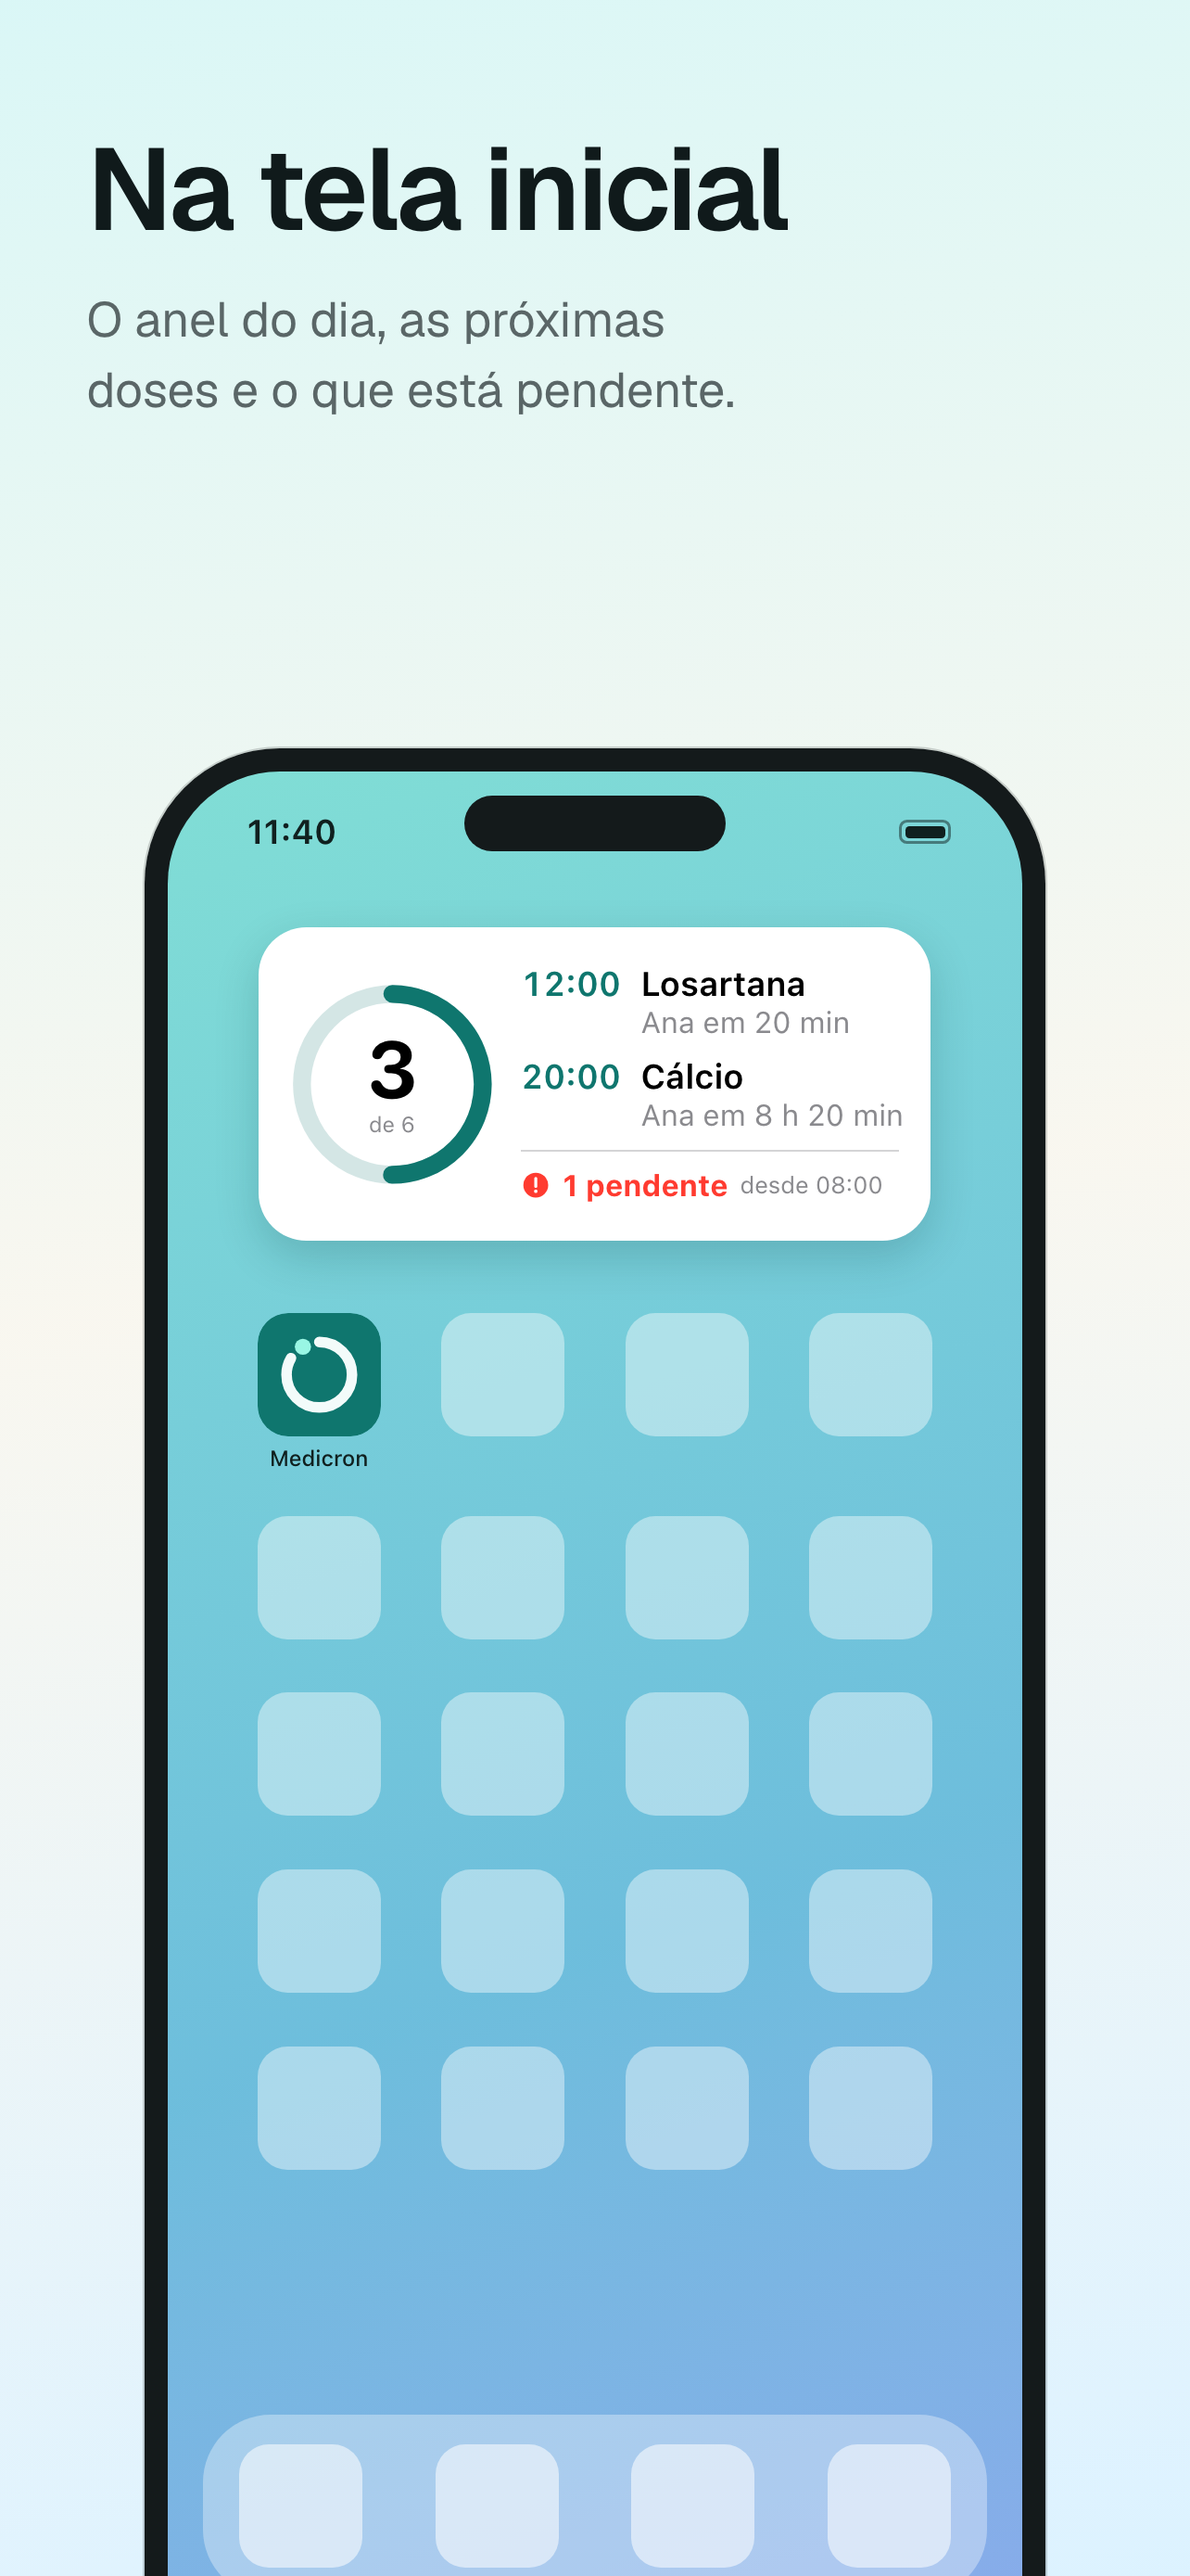
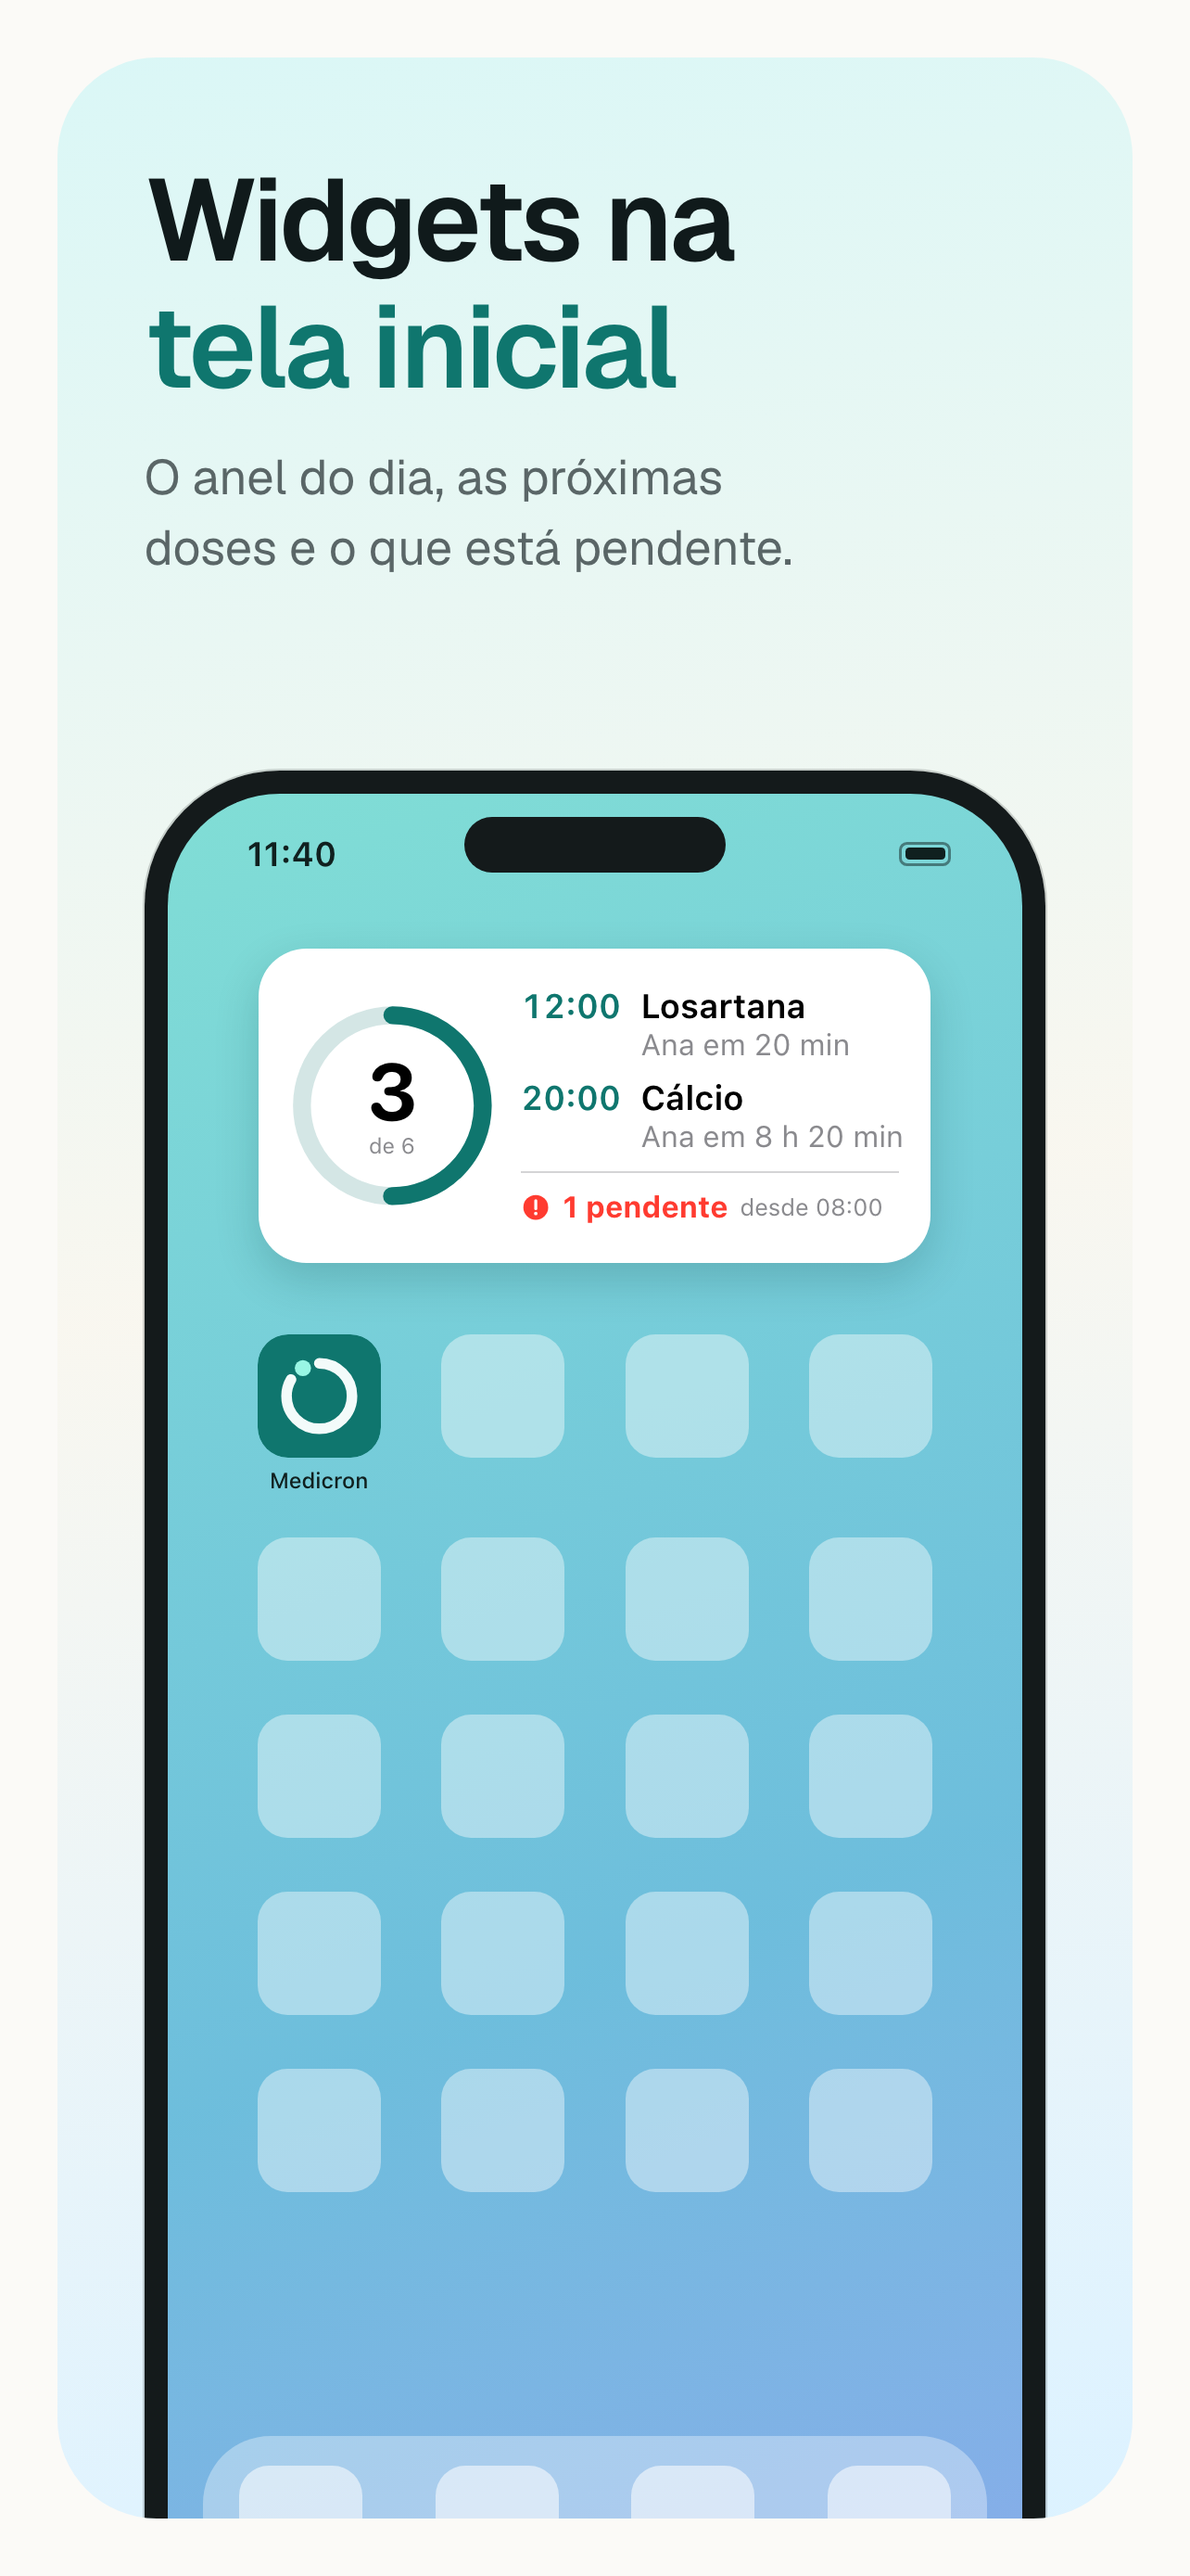
feat(loja): slides em cartão arredondado, palavra-chave em destaque e títulos sempre em 2 linhas

diff --git a/apps/app/scripts/store-slides.ts b/apps/app/scripts/store-slides.ts
@@ -6,7 +6,14 @@ import { renderWidgetScreen } from "./store-widgets.ts";
 
 export type StoreSize = { id: "6.9" | "6.5"; width: number; height: number };
 /** `app` = captura real de uma tela do app (`route`); `lock` e `home` = widgets do iOS reproduzidos (store-widgets.ts). */
-export type StoreSlide = { id: string; kind: "app" | "lock" | "home"; route: string; title: string; subtitle: string; theme: "light" | "dark" };
+export type StoreSlide = {
+  id: string; kind: "app" | "lock" | "home"; route: string;
+  /** O título sempre em 2 linhas, com a quebra decidida aqui (não pelo navegador); `title` é as duas juntas. */
+  lines: [string, string]; title: string;
+  /** Trecho de uma das linhas que ganha a cor da marca. */
+  highlight: string;
+  subtitle: string; theme: "light" | "dark";
+};
 
 /** Tamanhos de captura exigidos para iPhone (docs/lojas.md). */
 export const STORE_SIZES: StoreSize[] = [
@@ -14,18 +21,34 @@ export const STORE_SIZES: StoreSize[] = [
   { id: "6.5", width: 1284, height: 2778 },
 ];
 
+const slide = (o: Omit<StoreSlide, "title">): StoreSlide => ({ ...o, title: o.lines.join(" ") });
+
 /** Roteiro: as 5 telas de docs/lojas.md, na ordem, e os 2 slides de widgets (iPhone). Textos fiéis ao que o app faz (sem promessa médica). */
 export const STORE_SLIDES: StoreSlide[] = [
-  { id: "hoje", kind: "app", route: "/", title: "Cada dose na hora certa", subtitle: "Veja o que falta e o que atrasou.", theme: "light" },
-  { id: "pacientes", kind: "app", route: "/pacientes", title: "Gente e pets, cada um com a sua rotina", subtitle: "Todos os cuidados da casa em um só lugar.", theme: "dark" },
-  { id: "rotina", kind: "app", route: "/pacientes/pa_ana", title: "Monte a rotina de cada um", subtitle: "Medicação ou procedimento, com dose e frequência.", theme: "light" },
-  { id: "itens", kind: "app", route: "/itens", title: "Tudo o que entra na rotina", subtitle: "Medicações e procedimentos, cadastrados uma vez.", theme: "dark" },
-  { id: "conta", kind: "app", route: "/conta", title: "A família inteira no mesmo cuidado", subtitle: "Convide por link: todos veem o que já foi dado.", theme: "light" },
-  { id: "bloqueio", kind: "lock", route: "", title: "Na tela de bloqueio", subtitle: "A próxima dose e as pendentes, sem abrir o app.", theme: "dark" },
-  { id: "widget", kind: "home", route: "", title: "Na tela inicial", subtitle: "O anel do dia, as próximas doses e o que está pendente.", theme: "light" },
+  slide({ id: "hoje", kind: "app", route: "/", lines: ["Cada dose", "na hora certa"], highlight: "hora certa", subtitle: "Veja o que falta e o que atrasou.", theme: "light" }),
+  slide({ id: "pacientes", kind: "app", route: "/pacientes", lines: ["Cada um com", "a sua rotina"], highlight: "a sua rotina", subtitle: "Gente e pets, todos os cuidados em um só lugar.", theme: "dark" }),
+  slide({ id: "rotina", kind: "app", route: "/pacientes/pa_ana", lines: ["Monte a rotina", "de cada um"], highlight: "rotina", subtitle: "Medicação ou procedimento, com dose e frequência.", theme: "light" }),
+  slide({ id: "itens", kind: "app", route: "/itens", lines: ["Tudo o que entra", "na rotina"], highlight: "rotina", subtitle: "Medicações e procedimentos, cadastrados uma vez.", theme: "dark" }),
+  slide({ id: "conta", kind: "app", route: "/conta", lines: ["A família inteira", "no mesmo cuidado"], highlight: "mesmo cuidado", subtitle: "Convide por link: todos veem o que já foi dado.", theme: "light" }),
+  slide({ id: "bloqueio", kind: "lock", route: "", lines: ["Widgets na tela", "de bloqueio"], highlight: "bloqueio", subtitle: "A próxima dose e as pendentes, sem abrir o app.", theme: "dark" }),
+  slide({ id: "widget", kind: "home", route: "", lines: ["Widgets na", "tela inicial"], highlight: "tela inicial", subtitle: "O anel do dia, as próximas doses e o que está pendente.", theme: "light" }),
 ];
 
 const escapeHtml = (s: string) => s.replace(/&/g, "&amp;").replace(/</g, "&lt;").replace(/>/g, "&gt;").replace(/"/g, "&quot;");
+
+/** As 2 linhas do título em HTML, com o destaque (uma vez) em <em>. */
+function titleHtml(lines: [string, string], highlight: string): string {
+  const hi = escapeHtml(highlight);
+  let done = false;
+  return lines.map((l) => {
+    const e = escapeHtml(l);
+    if (!done && hi && e.includes(hi)) { done = true; return `<span class="ln">${e.replace(hi, `<em>${hi}</em>`)}</span>`; }
+    return `<span class="ln">${e}</span>`;
+  }).join(" ");
+}
+
+/** Reduz a fonte do título, de 2 em 2 px, até a linha mais larga caber na coluna (depois que a fonte carrega). */
+const FIT_SCRIPT = `<script>(function(){function fit(){var h=document.querySelector("h1"),max=h.parentNode.clientWidth,ls=h.querySelectorAll(".ln"),fs=parseFloat(getComputedStyle(h).fontSize);function w(){var m=0;for(var i=0;i<ls.length;i++)m=Math.max(m,ls[i].scrollWidth);return m}while(w()>max&&fs>60){fs-=2;h.style.fontSize=fs+"px"}}(document.fonts&&document.fonts.ready?document.fonts.ready:Promise.resolve()).then(fit)})()</script>`;
 
 /**
  * HTML de um slide. As medidas são proporcionais à largura (referência: 1320), então o 6,5" sai igual ao 6,9" em escala.
@@ -39,6 +62,8 @@ export function renderStoreSlide(slide: StoreSlide, size: StoreSize, screenDataU
   const bg = dark
     ? "radial-gradient(90% 38% at 6% 100%,oklch(0.5 0.1 190 / 0.9) 0%,transparent 62%),radial-gradient(70% 28% at 100% 56%,oklch(0.55 0.09 190 / 0.45) 0%,transparent 66%),linear-gradient(170deg,oklch(0.3 0.07 205) 0%,oklch(0.2 0.055 235) 100%)"
     : "linear-gradient(170deg,oklch(0.955 0.03 195) 0%,oklch(0.975 0.01 95) 48%,oklch(0.95 0.03 235) 100%)";
+  const page = dark ? "#0b1314" : "#fbfaf7"; // a cor de fundo do site, em volta do cartão
+  const hi = dark ? "#7ee7d3" : "#0f766e";
   const fg = dark ? "#fff" : "oklch(0.21 0.015 200)";
   const sub = dark ? "rgba(255,255,255,.7)" : "oklch(0.5 0.015 200)";
   const frame = dark ? "--bezel:#2b3436;--screen:#0b1314" : "--bezel:#141a1b;--screen:#fbfaf7";
@@ -49,20 +74,23 @@ export function renderStoreSlide(slide: StoreSlide, size: StoreSize, screenDataU
 <style>${fontCss}
 *{box-sizing:border-box}
 html,body{margin:0}
-body{position:relative;width:${size.width}px;height:${size.height}px;overflow:hidden;font-family:Geist,ui-sans-serif,system-ui,sans-serif;color:${fg};-webkit-font-smoothing:antialiased;
-background:${bg}}
-.copy{position:absolute;left:${px(96)};right:${px(96)};top:${px(140)}}
-h1{margin:0;font-size:${px(128)};line-height:1.1;letter-spacing:-.028em;font-weight:600;text-wrap:balance}
+body{position:relative;width:${size.width}px;height:${size.height}px;overflow:hidden;font-family:Geist,ui-sans-serif,system-ui,sans-serif;color:${fg};-webkit-font-smoothing:antialiased;background:${page}}
+.box{position:absolute;inset:${px(64)};border-radius:${px(110)};overflow:hidden;background:${bg}}
+.copy{position:absolute;left:${px(96)};right:${px(96)};top:${px(110)}}
+h1{margin:0;font-size:${px(128)};line-height:1.1;letter-spacing:-.028em;font-weight:600}
+.ln{display:block;white-space:nowrap}
+h1 em{font-style:normal;color:${hi}}
 p{margin:${px(34)} 0 0;font-size:${px(54)};line-height:1.45;font-weight:400;color:${sub};text-wrap:balance}
-.phone{${frame};position:absolute;left:50%;top:${px(830)};width:${px(1000)};margin-left:${px(-500)};overflow:hidden;border:${px(26)} solid var(--bezel);border-bottom:0;border-radius:${px(150)} ${px(150)} 0 0;outline:${px(3)} solid ${dark ? "rgba(255,255,255,.28)" : "rgba(20,26,27,.18)"};background:var(--screen);padding-top:${px(78)}}
+.phone{${frame};position:absolute;left:50%;top:${px(790)};width:${px(1000)};margin-left:${px(-500)};overflow:hidden;border:${px(26)} solid var(--bezel);border-bottom:0;border-radius:${px(150)} ${px(150)} 0 0;outline:${px(3)} solid ${dark ? "rgba(255,255,255,.28)" : "rgba(20,26,27,.18)"};background:var(--screen);padding-top:${px(78)}}
 .phone::before{content:"";position:absolute;z-index:2;top:${px(26)};left:50%;width:${px(290)};height:${px(62)};margin-left:${px(-145)};border-radius:999px;background:var(--bezel)}
 .phone img{display:block;width:100%;height:auto}
 .phone.raw{padding-top:0;background:#000}
 </style>
 </head>
 <body>
-<div class="copy"><h1>${escapeHtml(slide.title)}</h1><p>${escapeHtml(slide.subtitle)}</p></div>
-<div class="phone${slide.kind === "app" ? "" : " raw"}">${slide.kind === "app" ? `<img src="${screenDataUri}" alt="">` : renderWidgetScreen(slide.kind, DEMO_WIDGET_PROPS, WIDGET_DEMO_NOW, k, lockWallpaper)}</div>
+<div class="box"><div class="copy"><h1>${titleHtml(slide.lines, slide.highlight)}</h1><p>${escapeHtml(slide.subtitle)}</p></div>
+<div class="phone${slide.kind === "app" ? "" : " raw"}">${slide.kind === "app" ? `<img src="${screenDataUri}" alt="">` : renderWidgetScreen(slide.kind, DEMO_WIDGET_PROPS, WIDGET_DEMO_NOW, k, lockWallpaper)}</div></div>
+${FIT_SCRIPT}
 </body>
 </html>
 `;

diff --git a/apps/app/tests/store-slides.test.ts b/apps/app/tests/store-slides.test.ts
@@ -81,6 +81,64 @@ describe("estilo: tema escuro e claro do site, tipografia do hero", () => {
   });
 });
 
+const h1Text = (html: string) => html.match(/<h1>([\s\S]*?)<\/h1>/)![1].replace(/<[^>]+>/g, "").replace(/\s+/g, " ").trim();
+
+describe("títulos: sempre 2 linhas, com a palavra-chave em destaque", () => {
+  test("cada slide define exatamente 2 linhas (quebra explícita), curtas o bastante para a fonte ficar grande (≤ 18 letras)", () => {
+    for (const s of STORE_SLIDES) {
+      expect(s.lines).toHaveLength(2);
+      for (const l of s.lines) { expect(l.length).toBeGreaterThanOrEqual(6); expect(l.length).toBeLessThanOrEqual(18); }
+      expect(s.title).toBe(s.lines.join(" "));
+    }
+  });
+  test("o destaque é um trecho de uma das linhas", () => {
+    for (const s of STORE_SLIDES) expect(s.lines.some((l) => l.includes(s.highlight))).toBe(true);
+  });
+  test("o HTML tem 2 linhas (.ln) dentro do h1, o texto lido é o título inteiro e o destaque está em <em>", () => {
+    for (const s of STORE_SLIDES) {
+      const html = renderStoreSlide(s, STORE_SIZES[0], PIXEL, "");
+      expect(html.match(/<span class="ln">/g)).toHaveLength(2);
+      expect(h1Text(html)).toBe(s.title);
+      expect(html).toContain(`<em>${s.highlight}</em>`);
+    }
+  });
+  test("o destaque usa a cor da marca: verde-menta no escuro, verde do site no claro", () => {
+    expect(renderStoreSlide(STORE_SLIDES[1], STORE_SIZES[0], PIXEL, "")).toMatch(/h1 em\{[^}]*color:#7ee7d3/);
+    expect(renderStoreSlide(STORE_SLIDES[0], STORE_SIZES[0], PIXEL, "")).toMatch(/h1 em\{[^}]*color:#0f766e/);
+  });
+  test("as linhas não quebram (nowrap) e um script reduz a fonte até a mais larga caber na caixa, depois que a fonte carrega", () => {
+    const html = renderStoreSlide(STORE_SLIDES[0], STORE_SIZES[0], PIXEL, "");
+    expect(html).toMatch(/\.ln\{[^}]*white-space:nowrap/);
+    expect(html).toContain("document.fonts.ready");
+    expect(html).toContain("scrollWidth");
+  });
+});
+
+describe("cartão arredondado como o hero do site", () => {
+  const light = renderStoreSlide(STORE_SLIDES[0], STORE_SIZES[0], PIXEL, "");
+  const dark = renderStoreSlide(STORE_SLIDES[1], STORE_SIZES[0], PIXEL, "");
+  test("texto e celular ficam dentro de um .box de cantos grandes, que recorta o celular", () => {
+    expect(light).toMatch(/<div class="box">[\s\S]*<div class="copy">[\s\S]*<div class="phone[\s\S]*<\/div><\/div>\s*<script>[\s\S]*<\/script>\s*<\/body>/);
+    const box = light.match(/\.box\{[^}]*\}/)![0];
+    expect(Number(box.match(/border-radius:([\d.]+)px/)![1])).toBeGreaterThanOrEqual(100);
+    expect(box).toMatch(/overflow:hidden/);
+  });
+  test("o degradê do tema fica no cartão e a página em volta é a cor de fundo do site (claro #fbfaf7, escuro #0b1314)", () => {
+    expect(light).toMatch(/body\{[^}]*background:#fbfaf7/);
+    expect(dark).toMatch(/body\{[^}]*background:#0b1314/);
+    expect(light).toMatch(/\.box\{[^}]*linear-gradient\(170deg,oklch\(0\.955/);
+    expect(dark).toMatch(/\.box\{[^}]*linear-gradient\(170deg,oklch\(0\.3 /);
+  });
+  test("o texto (2 linhas de título + subtítulo de até 2 linhas) termina antes do topo do celular", () => {
+    const px = (re: RegExp) => Number(light.match(re)![1]);
+    const top = px(/\.copy\{[^}]*top:([\d.]+)px/);
+    const h1 = px(/h1\{[^}]*font-size:([\d.]+)px/);
+    const p = px(/p\{[^}]*font-size:([\d.]+)px/);
+    const gap = px(/p\{margin:([\d.]+)px/);
+    expect(top + 2 * h1 * 1.1 + gap + 2 * p * 1.45).toBeLessThanOrEqual(px(/\.phone\{[^}]*?;top:([\d.]+)px/) - 20);
+  });
+});
+
 describe("foto de fundo da tela de bloqueio", () => {
   test("o slide de bloqueio recebe a foto (5º argumento) e os outros slides ignoram", () => {
     const lock = STORE_SLIDES.find((x) => x.kind === "lock")!;
@@ -96,7 +154,7 @@ describe("renderStoreSlide", () => {
   test("página do tamanho exato, em pt-BR, com título, subtítulo e a captura embutida", () => {
     expect(html).toContain('<html lang="pt-BR">');
     expect(html).toContain("width:1320px;height:2868px");
-    expect(html).toContain(slide.title);
+    expect(h1Text(html)).toBe(slide.title);
     expect(html).toContain(slide.subtitle);
     expect(html).toContain(`<img src="${PIXEL}"`);
   });
@@ -105,8 +163,10 @@ describe("renderStoreSlide", () => {
     expect(html).toContain("@font-face{font-family:Geist}");
   });
   test("escapa HTML no título (nada de marcação injetada)", () => {
-    const h = renderStoreSlide({ ...slide, title: "A <b>&</b> B" }, size, PIXEL, "");
-    expect(h).toContain("A &lt;b&gt;&amp;&lt;/b&gt; B");
+    const h = renderStoreSlide({ ...slide, lines: ["A <b>&", "</b> B"], highlight: "<b>&" }, size, PIXEL, "");
+    expect(h).toContain("A <em>&lt;b&gt;&amp;</em>");
+    expect(h).toContain("&lt;/b&gt; B");
+    expect(h).not.toContain("<b>");
   });
   test("o celular sangra pela base (recortado), como no site", () => {
     expect(html).toMatch(/\.phone\{[^}]*border-bottom:0/);

diff --git a/apps/app/tests/store-widgets.test.ts b/apps/app/tests/store-widgets.test.ts
@@ -114,7 +114,7 @@ describe("slides de widgets no roteiro", () => {
   test("o HTML do slide traz o título, as medidas do tamanho pedido, nenhuma imagem de captura e nada de fora", () => {
     for (const s of STORE_SLIDES.slice(5)) {
       const html = renderStoreSlide(s, STORE_SIZES[1], "", "");
-      expect(html).toContain(s.title);
+      expect(html.replace(/<[^>]+>/g, "")).toContain(s.lines[0]);
       expect(html).toContain("width:1284px;height:2778px");
       expect(html).not.toContain("<img");
       expect(html).not.toMatch(/https?:\/\//);
